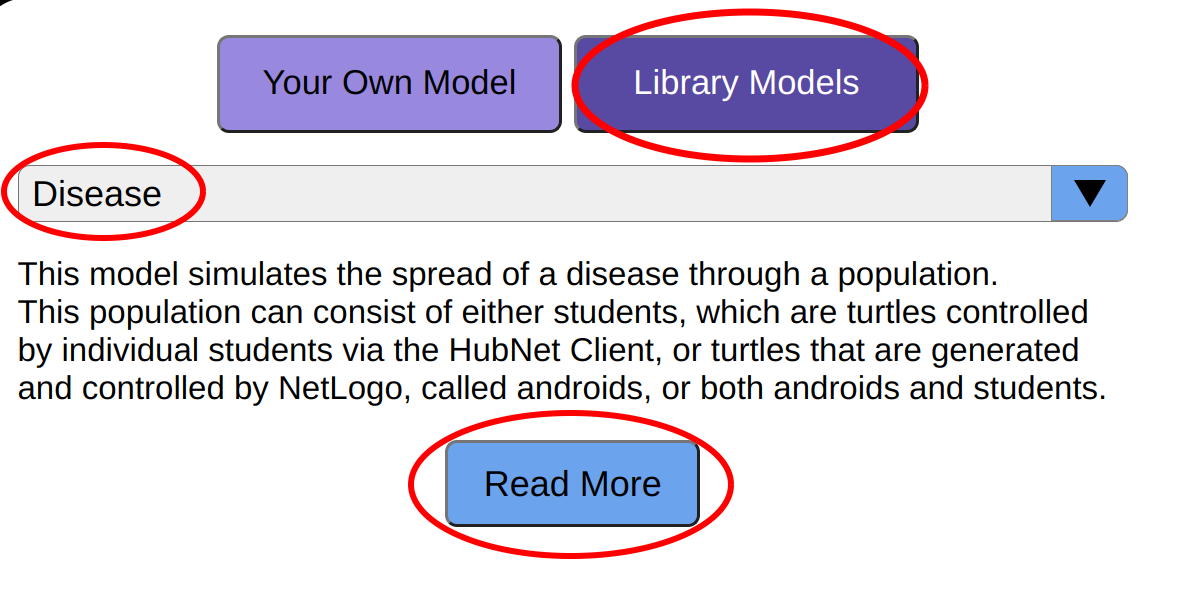
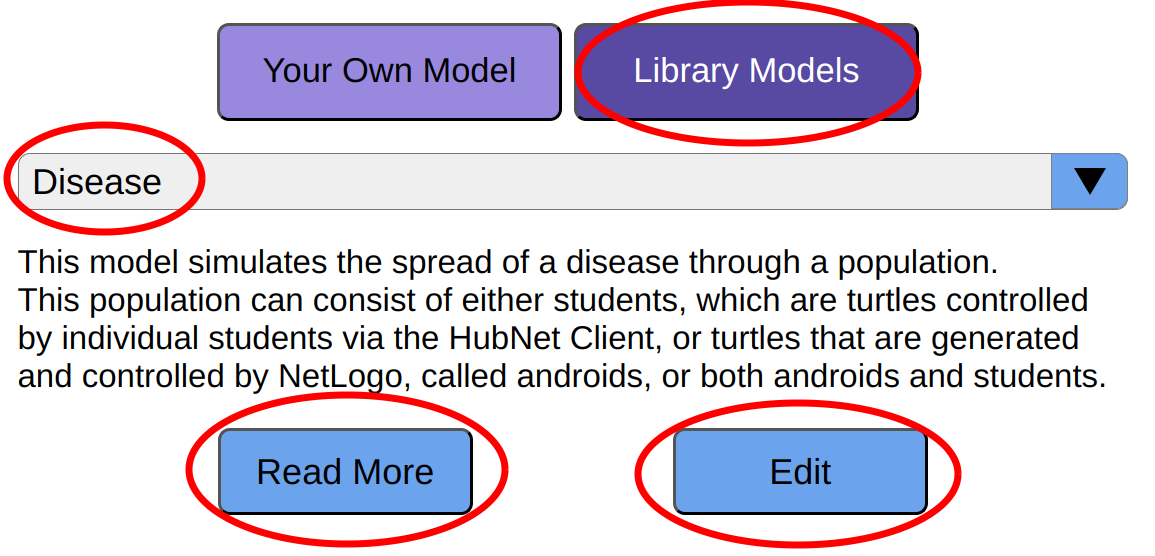
Docs: Update to reflect new UI

diff --git a/html/docs/faq.html b/html/docs/faq.html
@@ -46,7 +46,7 @@
           <p><strong>Why use HubNet Web?</strong> Because you want to combine the functionality of HubNet with the advantages of NetLogo Web.  Because you want access to a more approachable authoring experience than traditional HubNet offers.  Because traditional HubNet is too restrictive in activity format.  Because you want people outside of your LAN to be able to connect to your activity.</p>
 
           <h2>Choosing an activity from the library</h2>
-          <p>On <a href="/host">the <b>Host</b> page</a>, and make sure that "Library Models" is selected, towards the top-left.  Then, find the activity selection dropdown, which typically starts with the "Disease" model selected.  Click the dropdown and choose any activity from the list.  Upon doing so, a preview image and description for the model will be displayed.  You can click "Read More" for a fuller description of the activity.  More information on how to launch the activity can be found below.</p>
+          <p>On <a href="/host">the <b>Host</b> page</a>, and make sure that "Library Models" is selected, towards the top-left.  Then, find the activity selection dropdown, which typically starts with the "Disease" model selected.  Click the dropdown and choose any activity from the list.  Upon doing so, a preview image and description for the model will be displayed.  You can click "Read More" for a fuller description of the activity.  Clicking the "Edit" button will open the selected library model in the authoring tool.  More information on how to launch the activity can be found below.</p>
           <img src="/assets/images/docs/faq/host-choose-from-library.png" class="doc-image">
 
           <h2>Uploading your own activity</h2>
